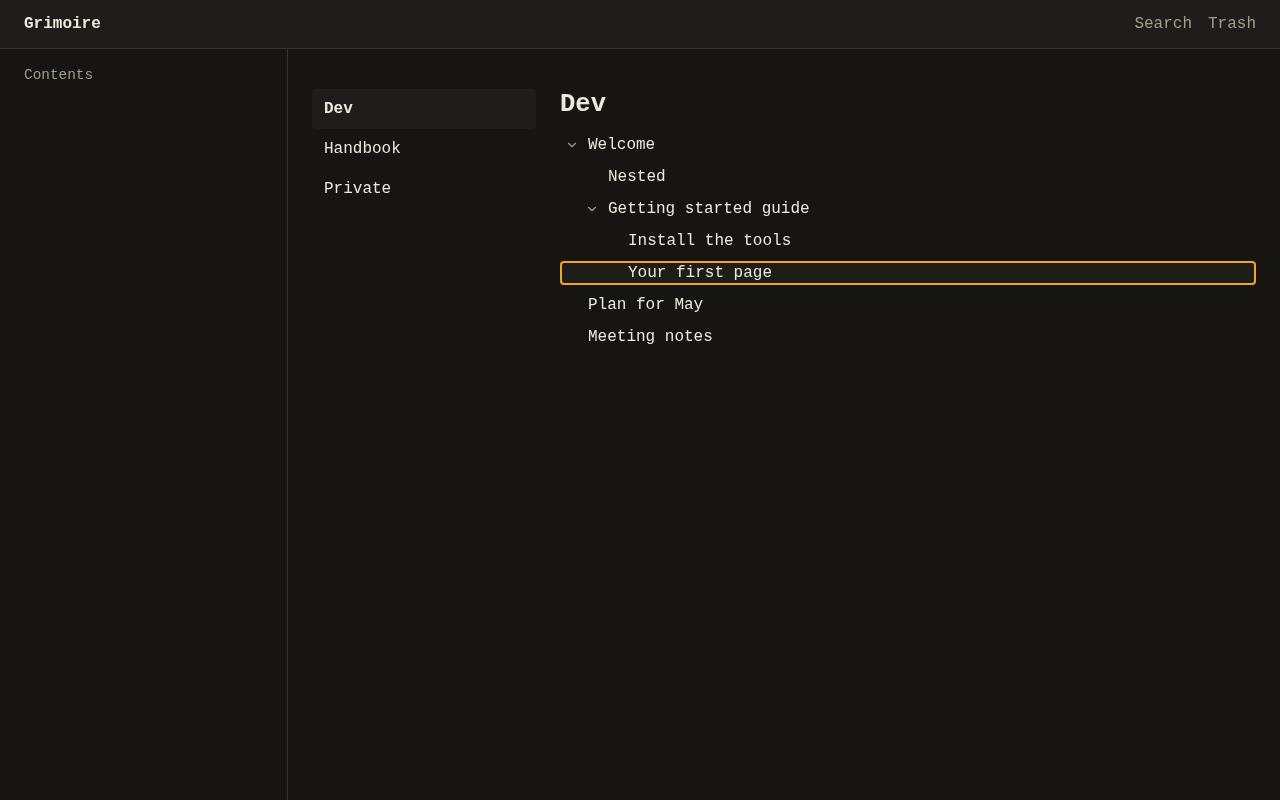
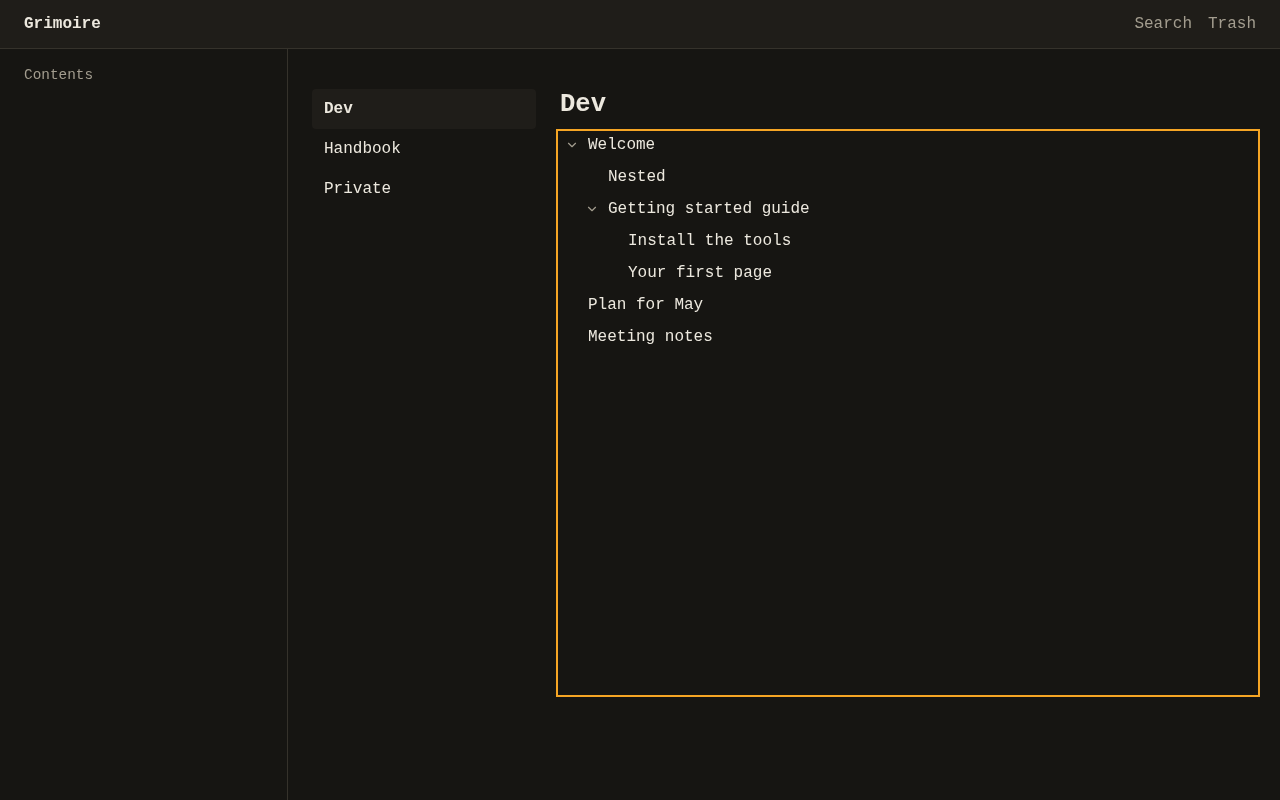
fix(web): opening a branch with its toggle does not open its page; refreshed screenshots

Changed region(s): [[0.9688, 0.3125, 1.0, 0.3438], [0.4375, 0.3125, 0.4688, 0.3438]]

diff --git a/apps/web/src/tree/Tree.tsx b/apps/web/src/tree/Tree.tsx
@@ -28,7 +28,7 @@ function Row({ node, style, dragHandle }: NodeRendererProps<TreeItem>) {
   return (
     <div ref={dragHandle} style={style} className="tree-row" data-focused={node.isFocused || undefined}>
       {node.isInternal ? (
-        <button type="button" className="tree-toggle" aria-label={`${node.isOpen ? 'Collapse' : 'Expand'} ${item.name}`} onClick={() => { node.toggle(); }}>
+        <button type="button" className="tree-toggle" aria-label={`${node.isOpen ? 'Collapse' : 'Expand'} ${item.name}`} onClick={(e) => { e.stopPropagation(); node.toggle(); }}>
           {node.isOpen ? <ChevronDown aria-hidden size={14} /> : <ChevronRight aria-hidden size={14} />}
         </button>
       ) : (

diff --git a/apps/web/test/tree/Tree.test.tsx b/apps/web/test/tree/Tree.test.tsx
@@ -77,4 +77,11 @@ describe('Tree', () => {
     expect(screen.getByRole('button', { name: 'Collapse Welcome' })).toBe(toggle);
     expect(document.activeElement).toBe(toggle);
   });
+
+  it('opens a branch with its toggle without opening its page', async () => {
+    render(<MemoryRouter><Tree items={items} /><Where /></MemoryRouter>);
+    await userEvent.click(screen.getByRole('button', { name: 'Expand Deep' }));
+    expect(screen.getByLabelText('location').textContent).toBe('/');
+    expect(screen.getAllByRole('treeitem')).toHaveLength(5);
+  });
 });
